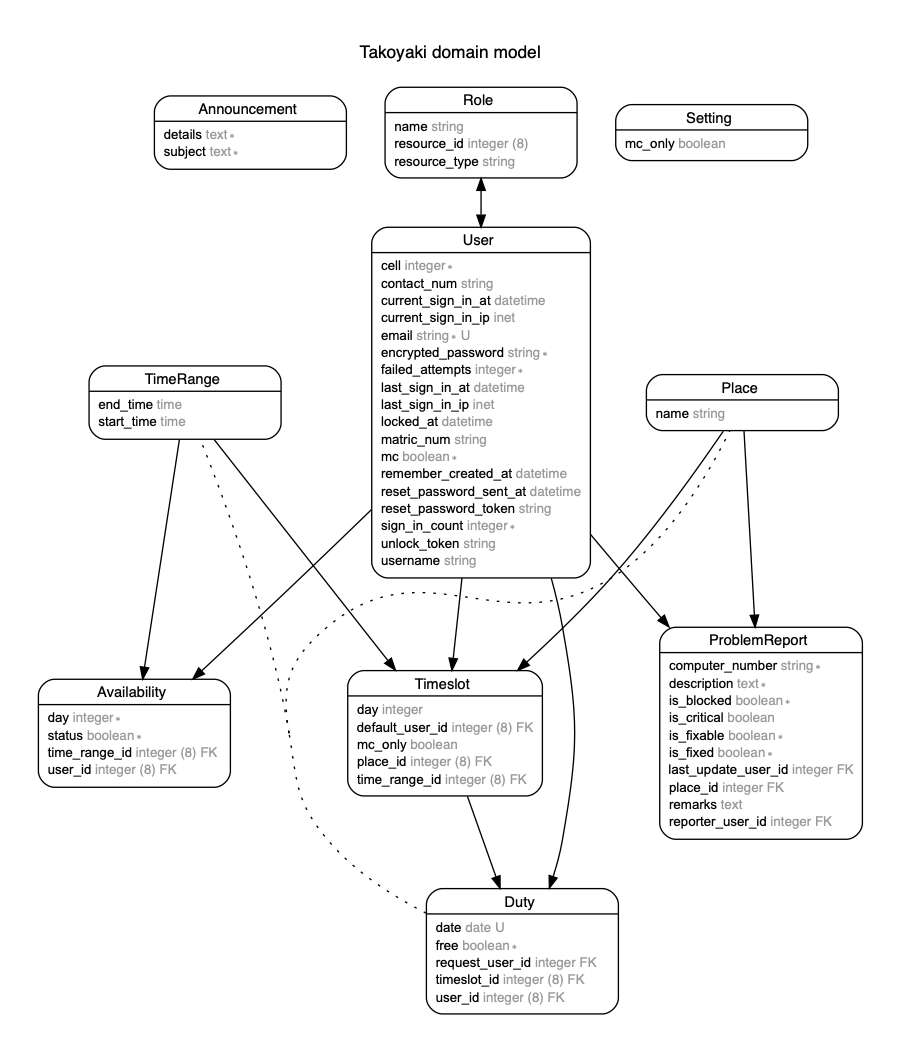
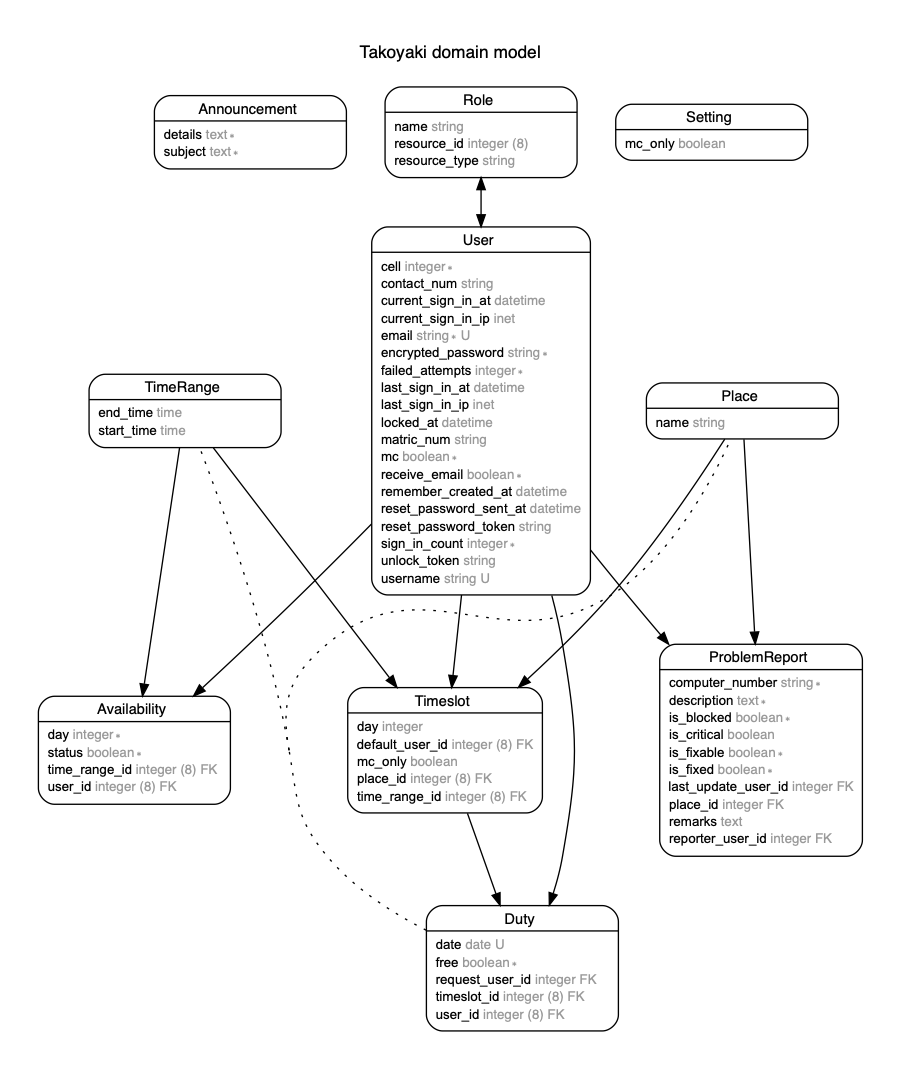
Add option to disable email notification (#303)
* Add receive email field to users and filter drop duties email

* Fix style

* Add receive email notification option in edit profile

* Add tests

* Simplify User query in mailer

* Update schema.png

diff --git a/spec/mailers/generic_mailer_spec.rb b/spec/mailers/generic_mailer_spec.rb
@@ -42,6 +42,14 @@ RSpec.describe GenericMailer, type: :mailer do
       Setting.retrieve.update(mc_only: true)
       expect(mail.to).to eq(User.select(&:mc).pluck(:email))
     end
+
+    it 'follows receive_email flag' do
+      create_list(:user, 5, mc: false, receive_email: false)
+      create_list(:user, 5, mc: false, receive_email: true)
+      create_list(:user, 5, mc: true, receive_email: false)
+      create_list(:user, 5, mc: true, receive_email: true)
+      expect(mail.to).to eq(User.select(&:receive_email).pluck(:email))
+    end
   end
 
   describe '#combine_duties' do
@@ -81,6 +89,7 @@ RSpec.describe GenericMailer, type: :mailer do
       GenericMailer.problem_report(problem)
     end
     it 'renders the header' do
+      create_list(:user, 5, cell: 'technical', receive_email: false)
       expect(mail.subject).to eq('New computer problem')
       expect(mail.to).to eq(User.where(cell: 'technical').pluck(:email))
     end

diff --git a/db/schema.rb b/db/schema.rb
@@ -10,7 +10,7 @@
 #
 # It's strongly recommended that you check this file into your version control system.
 
-ActiveRecord::Schema.define(version: 2018_12_14_160315) do
+ActiveRecord::Schema.define(version: 2019_04_13_010652) do
 
   # These are extensions that must be enabled in order to support this database
   enable_extension "plpgsql"
@@ -125,6 +125,7 @@ ActiveRecord::Schema.define(version: 2018_12_14_160315) do
     t.string "contact_num"
     t.integer "cell", null: false
     t.boolean "mc", default: false, null: false
+    t.boolean "receive_email", default: true, null: false
     t.index ["email"], name: "index_users_on_email", unique: true
     t.index ["reset_password_token"], name: "index_users_on_reset_password_token", unique: true
     t.index ["username"], name: "index_users_on_username", unique: true

diff --git a/app/controllers/application_controller.rb b/app/controllers/application_controller.rb
@@ -10,7 +10,7 @@ class ApplicationController < ActionController::Base
 
   def configure_permitted_parameters
     added_attrs = %i[username matric_num contact_num email password
-                     password_confirmation remember_me mc cell]
+                     password_confirmation remember_me mc cell receive_email]
     devise_parameter_sanitizer.permit :sign_up, keys: added_attrs
     devise_parameter_sanitizer.permit :account_update, keys: added_attrs
   end

diff --git a/app/mailers/generic_mailer.rb b/app/mailers/generic_mailer.rb
@@ -64,8 +64,10 @@ class GenericMailer < ApplicationMailer
   end
 
   def process_user_ids(user_ids)
+    user_ids = User.where(id: user_ids, receive_email: true)
+                   .pluck(:id)
     if mc_only?
-      User.where('id in (?) and mc = TRUE', user_ids).pluck(:id)
+      User.where(id: user_ids, mc: true).pluck(:id)
     else
       user_ids
     end

diff --git a/app/models/user.rb b/app/models/user.rb
@@ -25,6 +25,7 @@
 #  contact_num            :string
 #  cell                   :integer          not null
 #  mc                     :boolean          default(FALSE), not null
+#  receive_email          :boolean          default(TRUE), not null
 #
 # Indexes
 #

diff --git a/spec/factories/users.rb b/spec/factories/users.rb
@@ -25,6 +25,7 @@
 #  contact_num            :string
 #  cell                   :integer          not null
 #  mc                     :boolean          default(FALSE), not null
+#  receive_email          :boolean          default(TRUE), not null
 #
 # Indexes
 #

diff --git a/spec/models/user_spec.rb b/spec/models/user_spec.rb
@@ -25,6 +25,7 @@
 #  contact_num            :string
 #  cell                   :integer          not null
 #  mc                     :boolean          default(FALSE), not null
+#  receive_email          :boolean          default(TRUE), not null
 #
 # Indexes
 #

diff --git a/db/migrate/20190413010652_add_receive_email_to_users.rb b/db/migrate/20190413010652_add_receive_email_to_users.rb
@@ -1,0 +1,5 @@
+class AddReceiveEmailToUsers < ActiveRecord::Migration[5.2]
+  def change
+    add_column :users, :receive_email, :boolean, default: true, null: false 
+  end
+end
